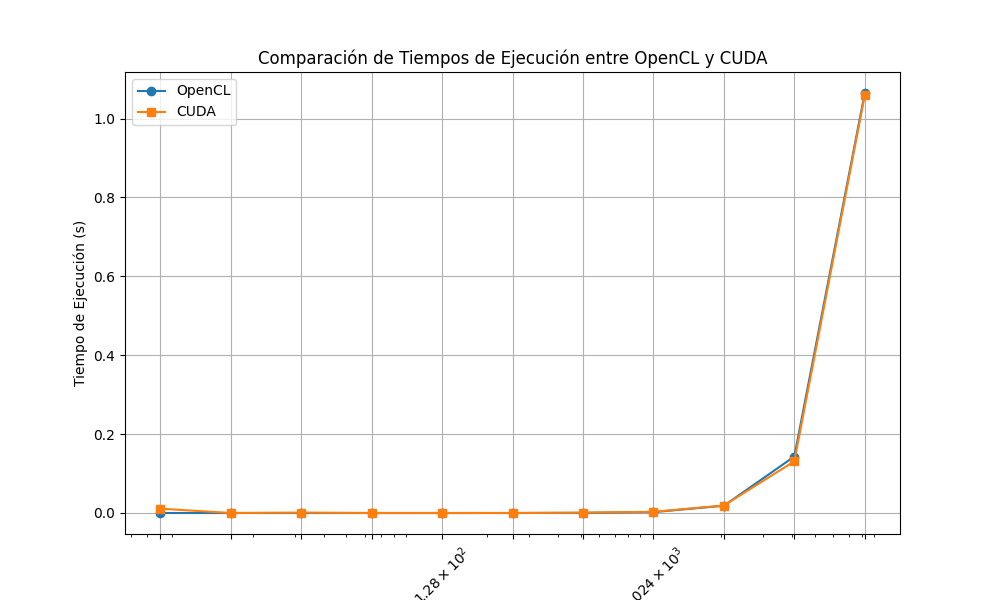
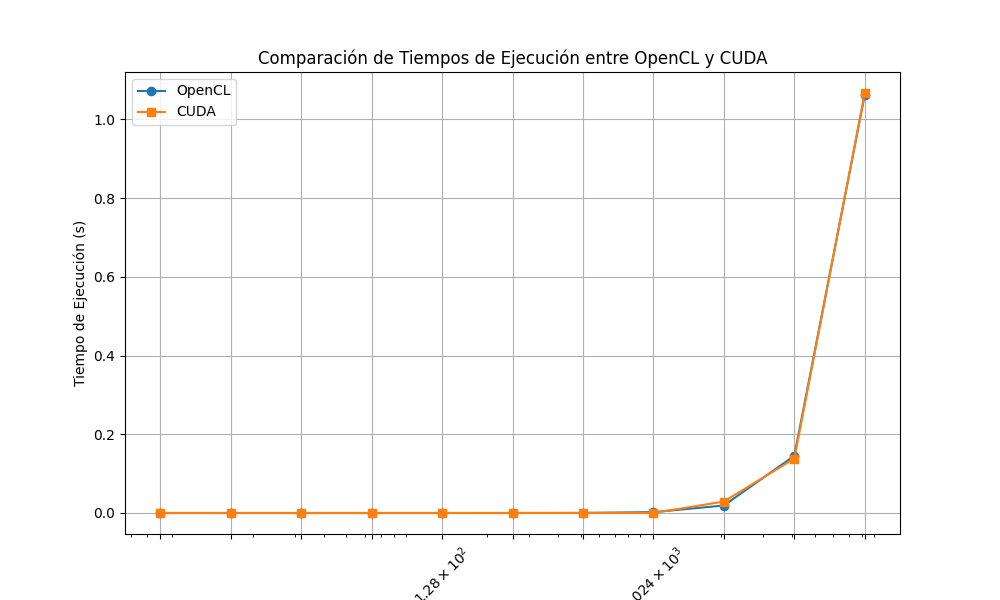
Cambios cuda

diff --git a/CUDA/experimentos_cuda.py b/CUDA/experimentos_cuda.py
@@ -116,8 +116,7 @@ def comparar(path):
     # Mostrar la tabla de resultados
     guardar_dataframe_excel(df_results,path,'comparacion_cuda_opencl')
 
-    #Hacer un grafico
-        # Graficar los tiempos de ejecución
+    # Graficar los tiempos de ejecución
     plt.figure(figsize=(10, 6))
     plt.plot(df_results["Dimensión"], df_results["Tiempo OpenCL (s)"], label="OpenCL", marker='o')
     plt.plot(df_results["Dimensión"], df_results["Tiempo CUDA (s)"], label="CUDA", marker='s')
@@ -126,115 +125,98 @@ def comparar(path):
     plt.xlabel("Dimensión de la Matriz")
     plt.ylabel("Tiempo de Ejecución (s)")
     plt.title("Comparación de Tiempos de Ejecución entre OpenCL y CUDA")
-    # Establecer la escala logarítmica para el eje X
-   
-    plt.xscale('log')
-    
 
-    # Asegurarnos de que las etiquetas del eje X correspondan a las dimensiones
-    plt.xticks(dims)  # Mostrar solo los valores de dims en el eje X
-    
-    # Mejorar la visualización de las etiquetas, por si acaso
-    plt.xticks(rotation=45)
-    
+    # Establecer las etiquetas personalizadas para el eje X
+    dims = [8, 16, 32, 64, 128, 256, 512, 1024, 2048, 4096, 8192]
+    plt.xticks(dims, labels=[str(d) for d in dims], rotation=45)
 
+    # Forzar la escala logarítmica con etiquetas específicas
+    plt.gca().set_xscale('log')
+    plt.gca().set_xticks(dims)
+    plt.gca().get_xaxis().set_major_formatter(plt.ScalarFormatter())
+    plt.gca().get_xaxis().set_minor_formatter(plt.NullFormatter())
+
+    # Agregar leyenda y rejilla
     plt.legend()
-    plt.grid(True) # Mostrar solo los valores de dims en el eje X
- 
+    plt.grid(True)
 
-    #Guardar grafico
-
-    save_path =os.path.join(path, 'opencl_cuda.png')
+    # Guardar o mostrar el gráfico
+    save_path = "grafico_cuda_opencl.png"
     plt.savefig(save_path)
+    plt.show()
+
+
 
 
 
 #Funcion para aplicar kernel_cuda para distintos block y grid sizes
 
-def aplicar_kernel_local_sizes():
+def aplicar_kernel_local_sizes_completo():
+    # Combinaciones de bloques fijas y dinámicas (128 hebras por bloque)
+    combinaciones_fijas = [(1, 1), (2, 2), (4, 4), (8, 8), (16, 16), (32, 32)]
+    combinaciones_128 = [(x, 128 // x) for x in range(1, 129) if 128 % x == 0]
+    todas_combinaciones = combinaciones_fijas + combinaciones_128
 
-  index = [(f"({2 ** i}/{2 ** i})" if i != 0 else "(1/1)") for i in range(0, 5)]
-  columns = [2 ** i for i in range(1, 14)]  # 2^1 a 2^13 (de 2 a 8192)
-  results_df = pd.DataFrame(index=index, columns=columns)
-  i=1
-  while i<=32:
+    # Índices y columnas del DataFrame
+    index = [f"Block ({block[0]}/{block[1]})" for block in todas_combinaciones]
+    columns = [2 ** i for i in range(1, 14)]  # Dimensiones de las matrices
 
-    local_size=(i,i)
-    if i==1:
-        dim=2
+    # Crear el DataFrame
+    results_df = pd.DataFrame(index=index, columns=columns)
 
-    else:
-      dim=i
+    for block in todas_combinaciones:
+        block_x, block_y = block
+        block_size = block_x * block_y
 
-    while dim<=8192:
+        for dim in columns:
+            # Verificar que la configuración del bloque sea válida
+            if block_size > dim * dim:
+                # Si el bloque excede el tamaño de la matriz, omitir esta configuración
+                results_df.loc[f"Block ({block_x}/{block_y})", dim] = "NaN"
+                continue
 
-       A = np.random.random(size=(dim, dim)).astype(np.float32)
-       B = np.random.random(size=(dim, dim)).astype(np.float32)
-       
-       grid = (dim // i, dim // i)
-       block = (i, i,1)
+            A = np.random.random(size=(dim, dim)).astype(np.float32)
+            B = np.random.random(size=(dim, dim)).astype(np.float32)
 
-       exec_time,C=cuda.ejecutar_kernel(dim,A,B,block,grid)
+            grid_x = math.ceil(dim / block_x)
+            grid_y = math.ceil(dim / block_y)
 
-       results_df.loc[f"({i}/{i})", dim] = exec_time if exec_time is not None else "NP"
+            block_value = (block_x, block_y, 1)
+            grid_value = (grid_x, grid_y)
 
+            try:
+                exec_time, _ = cuda.ejecutar_kernel(dim, A, B, block_value, grid_value)
+                results_df.loc[f"Block ({block_x}/{block_y})", dim] = exec_time if exec_time is not None else "NP"
+            except Exception as e:
+                results_df.loc[f"Block ({block_x}/{block_y})", dim] = f"Error: {str(e)}"
 
-       dim*=2
-
-       del A,B
-
-
-    i*=2
-    
-  
-
-  return results_df
-
-
-# DADO UN DATA FRAME REALIZA SU GRAFICO DONDE EN EL EJE X ESTAN LAS DIMENSIONES DE LAS MATRICES, EJE Y LOS TIEMPOS Y CADA LCOAL SIZE ES UNA LINEA
-def graficar_tiempos_ejecucion(data, columns_to_plot=None, save_path=None):
-    # Convertir a numérico y reemplazar errores con NaN
-    data = data.apply(pd.to_numeric, errors='coerce')
-
-    # Eliminar columnas completamente vacías
-    data = data.dropna(axis=1, how='all')
+    return results_df
+def graficar_tiempos_ejecucion_completo(data, save_path=None):
+    # Convertir columnas a numérico, reemplazar errores con NaN y eliminar columnas vacías
+    data = data.apply(pd.to_numeric, errors='coerce').dropna(axis=1, how='all')
 
     plt.figure(figsize=(12, 8))
 
-    # Si se especifican columnas a graficar, usarlas, de lo contrario, graficar todo
-    if columns_to_plot is not None:
-        data = data[columns_to_plot]
-    else:
-        data = data.dropna(axis=0, how='all')  # Eliminar filas completamente vacías
+    # Iterar sobre cada fila (tamaño de bloque)
+    for block_size in data.index:
+        if block_size not in data.columns:
+            continue  # Saltar si el tamaño de bloque no es una columna
 
-    # Iterar sobre cada columna del DataFrame (cada local size)
-    for local_size in data.columns:
-        # Obtener los valores de tiempo correspondientes a cada imagen
-        row_values = data[local_size].dropna().values  # Eliminamos NaN
-        dim_matrix = data.index[data[local_size].notna()]  
-        
-        # Graficar solo si hay datos
+        row_values = data.loc[block_size].dropna().values
+        dim_matrix = data.columns[data.loc[block_size].notna()]
+
         if len(row_values) > 0:
-            plt.plot(dim_matrix, row_values, marker='o', label=f'Tamaño Local: {local_size}')
+            plt.plot(dim_matrix, row_values, marker='o', label=f'Tamaño Local: {block_size}')
 
-    # Configuraciones de la gráfica
     plt.title('Tiempos de Ejecución por Tamaño de Trabajo')
     plt.xlabel('Dimensiones Matrices')
     plt.ylabel('Tiempo de Ejecución (segundos)')
-    ticks = [2 ** i for i in range(1, 14)]  # 2, 4, 8, ..., 8192
-    plt.xticks(ticks, labels=[str(t) for t in ticks], rotation=45)
-
-    # Usar escala logarítmica en el eje x
     plt.xscale('log')
-
-    # Ajustar el formato del eje x para que muestre solo los ticks especificados
-    plt.gca().set_xticks(ticks)
-    plt.gca().xaxis.set_major_formatter(plt.ScalarFormatter())
+    plt.xticks([2 ** i for i in range(1, 14)], rotation=45)
     plt.legend(title='Tamaños de Trabajo', bbox_to_anchor=(1.05, 1), loc='upper left')
     plt.grid(True)
-    plt.tight_layout()  # Ajustar el diseño
+    plt.tight_layout()
 
-    # Guardar o mostrar la gráfica
     if save_path:
         plt.savefig(save_path)
         print(f"Gráfico guardado en {save_path}")
@@ -242,6 +224,7 @@ def graficar_tiempos_ejecucion(data, columns_to_plot=None, save_path=None):
         plt.show()
 
     plt.close()
+
 
 
 def mejores_valores(results_combined):
@@ -280,7 +263,7 @@ def mejores_valores(results_combined):
 def experimento_matrices(base_save_dir,funcion_nombre='kernel_cuda'):
     
     # PARTE 1: APLICAR LOCAL SIZES GENERICAS
-    results_general = aplicar_kernel_local_sizes()
+    results_general = aplicar_kernel_local_sizes_completo()
    
 
     # PARTE 4: DEVOLVER LOS MEJORES VALORES PARA CADA FILA
@@ -291,9 +274,8 @@ def experimento_matrices(base_save_dir,funcion_nombre='kernel_cuda'):
 
     # PARTE 6: HACER Y GUARDAR UN GRAFICO SOLO CON LOS RESULTADOS GENERALES
     general_save_path = os.path.join(base_save_dir, 'tiempos_ejecucion_generales.png')
-    graficar_tiempos_ejecucion(results_general.T, save_path=general_save_path)
+    graficar_tiempos_ejecucion_completo(results_general.T, save_path=general_save_path)
 
 
     # PARTE 8: Devolver los DataFrames
     return results_general , best_results_df
-
